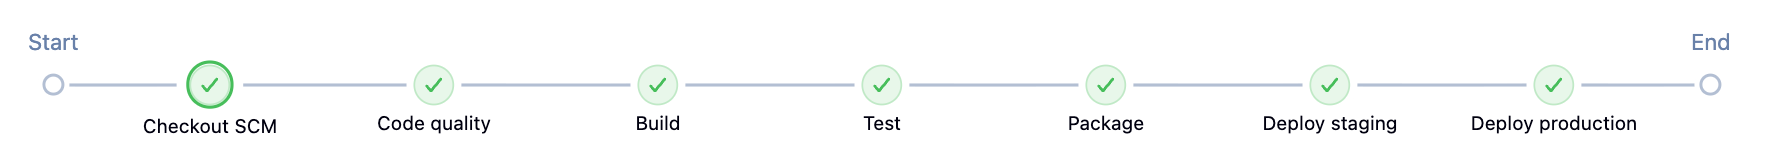
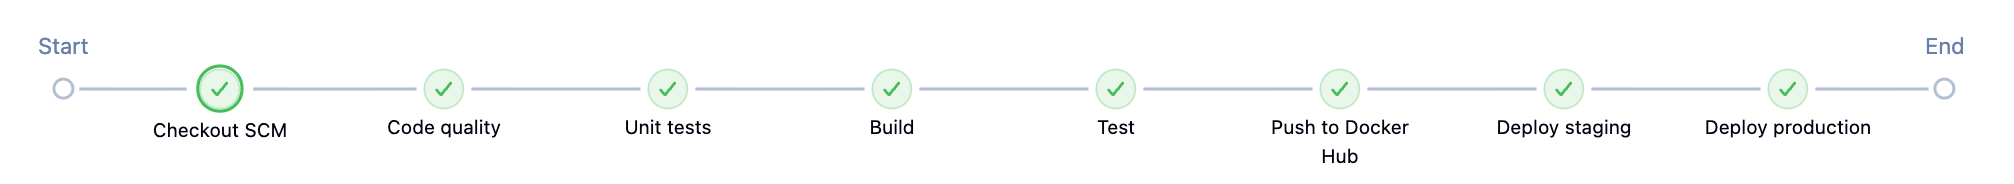
update readme

diff --git a/README.md b/README.md
@@ -14,7 +14,7 @@ flowchart LR
     q --> u[Unit tests<br/>pytest]
     u --> b[Build<br/>image Docker]
     b --> t[Test<br/>conteneur + curl]
-    t --> p[Package<br/>push Docker Hub]
+    t --> p[Push to Docker Hub<br/>push Docker Hub]
     p --> s[Deploy staging<br/>Ansible]
     s --> v{Validation<br/>manuelle}
     v --> pr[Deploy production<br/>Ansible]
@@ -45,7 +45,7 @@ flowchart LR
 | **Unit tests** | Teste le code avec pytest : les routes `/` et `/health`, et le gestionnaire d'erreurs, qui ne doit pas exposer le message interne |
 | **Build** | Construit l'image, taguée avec le numéro de build (`v$BUILD_NUMBER`) |
 | **Test** | Test de fumée : lance un conteneur à partir de l'image et vérifie que `/` et `/health` répondent. Le conteneur est supprimé même en cas d'échec (`post { always }`) |
-| **Package** | Publie l'image sur Docker Hub. Le token est stocké dans les credentials Jenkins et masqué dans les logs |
+| **Push to Docker Hub** | Publie l'image sur Docker Hub. Le token est stocké dans les credentials Jenkins et masqué dans les logs |
 | **Deploy staging** | Déploie l'image sur le serveur staging avec Ansible, puis vérifie `/health` |
 | **Deploy production** | Après **validation manuelle**, déploie la même image sur la production, puis vérifie `/health` |
 
@@ -89,13 +89,19 @@ flowchart LR
 # Contrôle qualité et tests unitaires
 docker run --rm -v "$PWD":/src -w /src python:3.14-slim \
   sh -c "pip install -q -r requirements-dev.txt && flake8 . && pytest -v"
+```
+![Tests unitaires](screenshots/test.png)
 
+```bash
 # Construire et lancer l'application
 docker build -t flask-app .
 docker run -d --name flask-app -p 8083:8080 flask-app
 curl http://localhost:8083          # Hello World
 curl http://localhost:8083/health   # {"env":"dev","status":"ok"}
 ```
+
+![Appel de l'API](screenshots/curl.png)
+![Site dans le navigateur](screenshots/site.png)
 
 ## Déployer sur AWS
 
